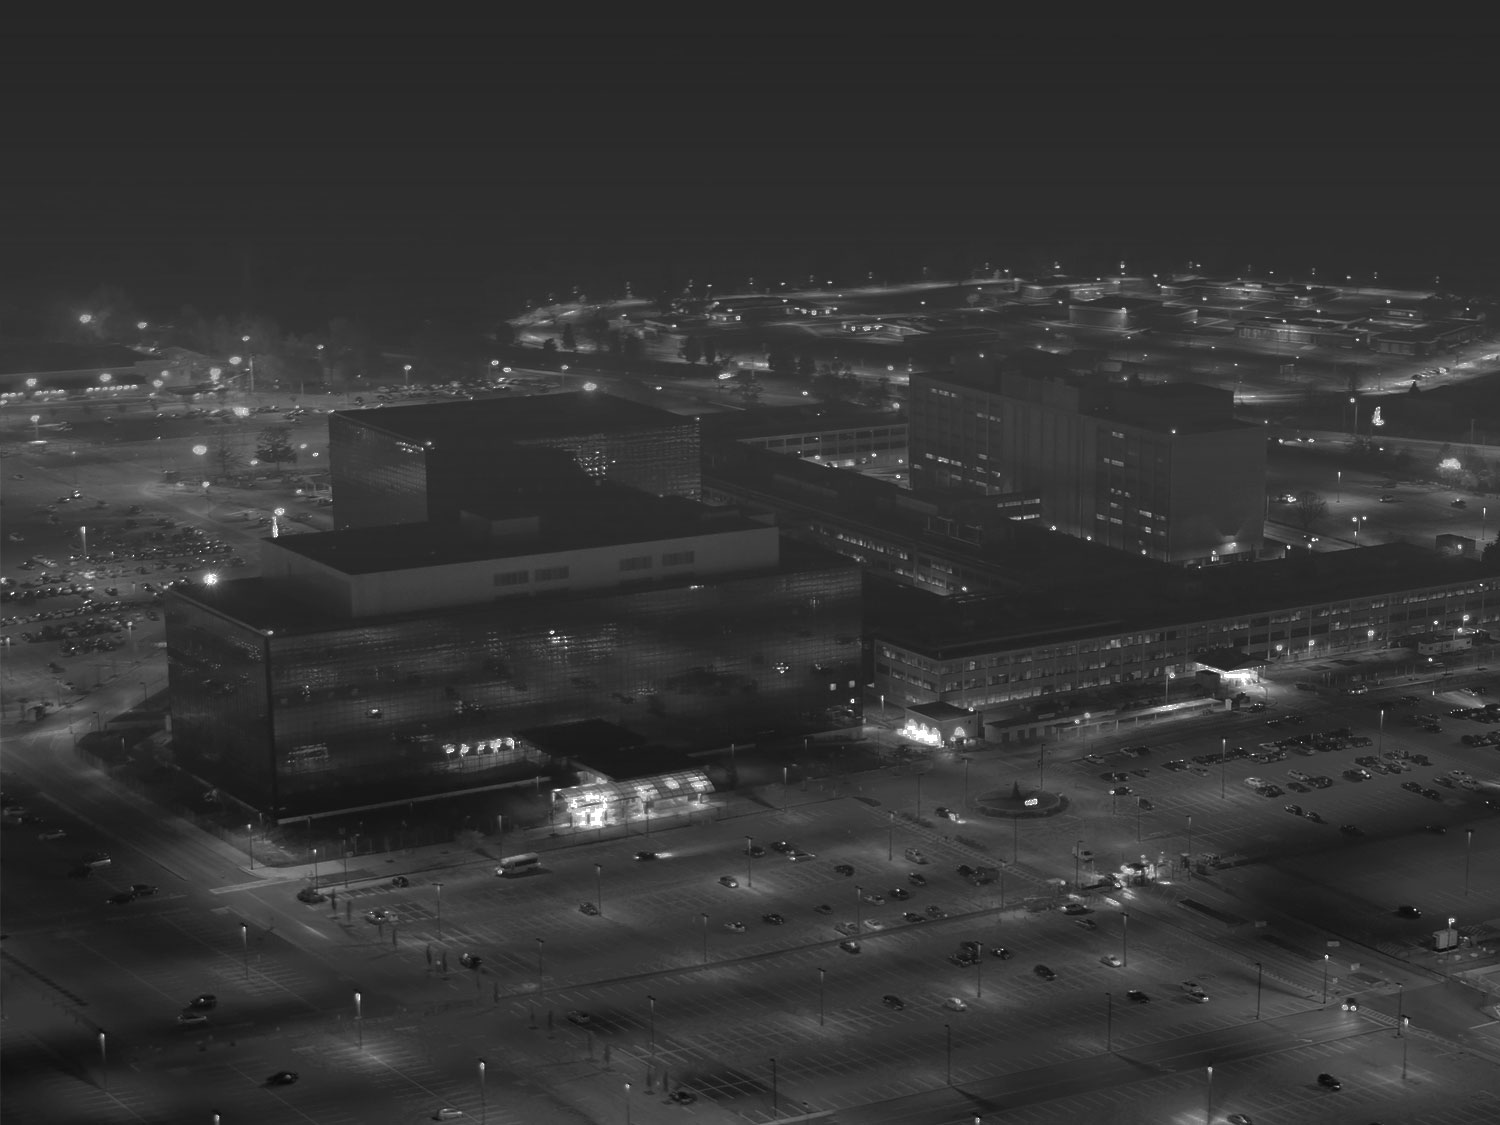
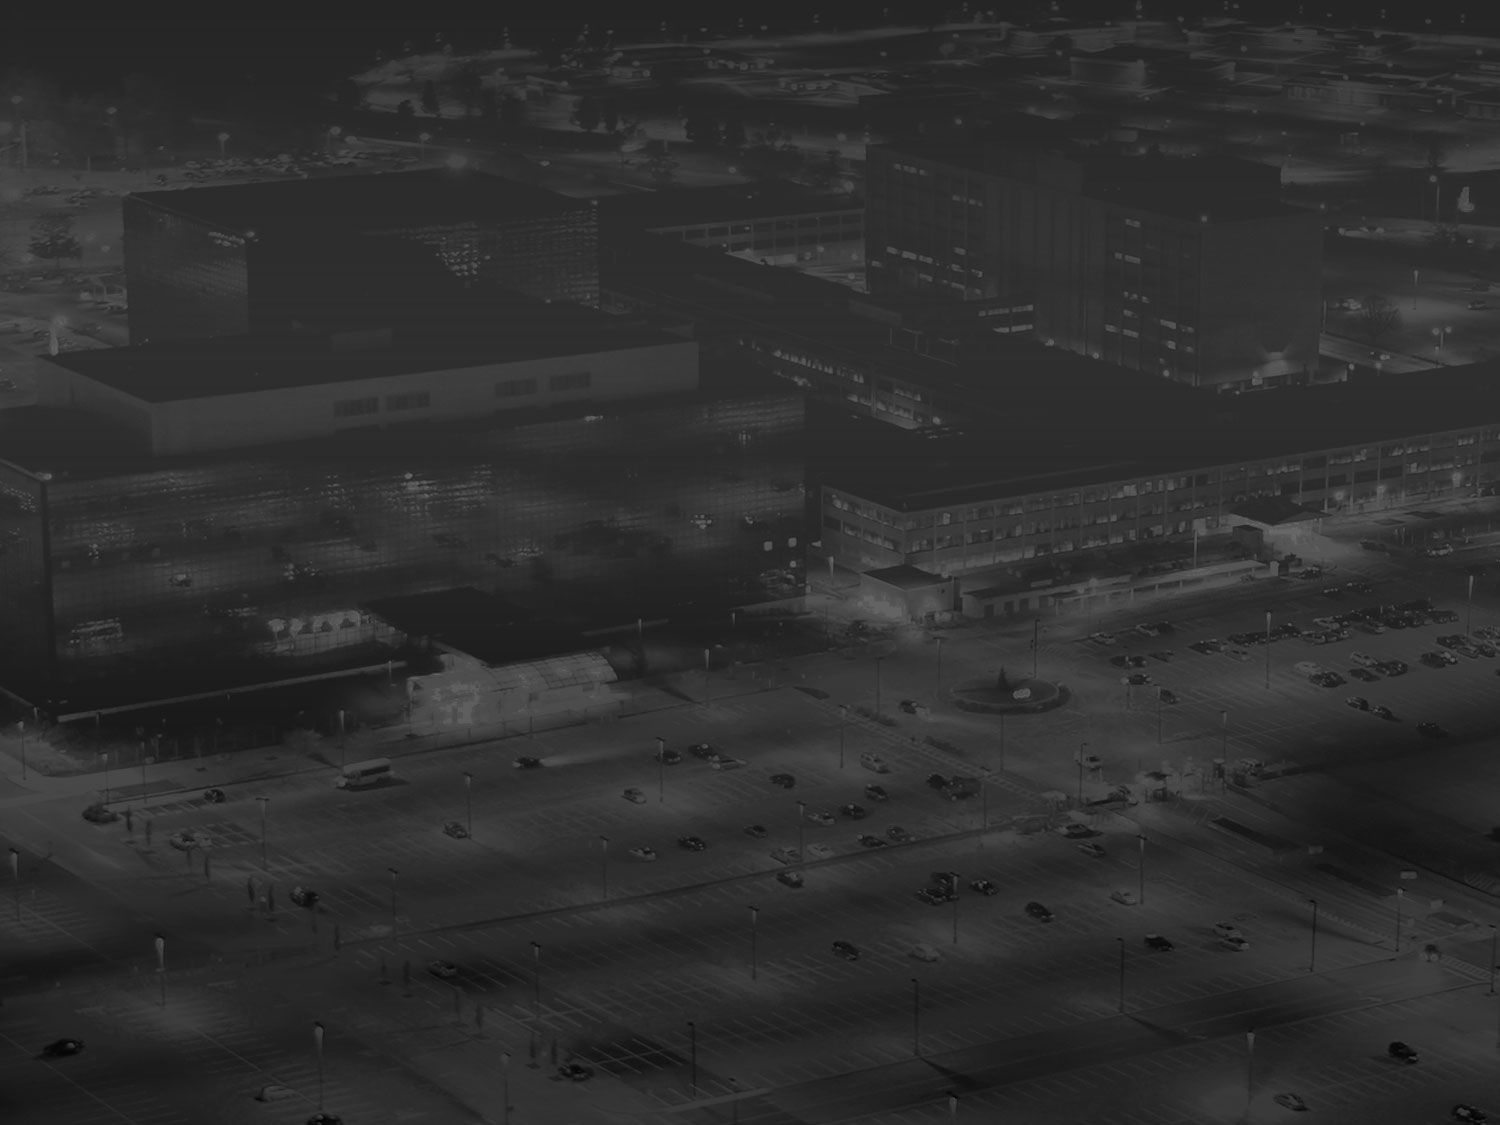
Various fixes

diff --git a/index.html b/index.html
@@ -13,6 +13,7 @@
     <link href="//netdna.bootstrapcdn.com/bootstrap/3.0.3/css/bootstrap.min.css" rel="stylesheet" type="text/css">
 
     <!-- Fonts -->
+    <link href="//netdna.bootstrapcdn.com/font-awesome/4.0.3/css/font-awesome.min.css" rel="stylesheet" type="text/css">
     <link href="css/iconfont.css" rel="stylesheet" type="text/css">
     <link href='//fonts.googleapis.com/css?family=Lora:400,700,400italic,700italic' rel='stylesheet' type='text/css'>
     <link href='//fonts.googleapis.com/css?family=Montserrat:400,700' rel='stylesheet' type='text/css'>
@@ -28,10 +29,10 @@
         <div class="container">
             <div class="navbar-header page-scroll">
                 <button type="button" class="navbar-toggle" data-toggle="collapse" data-target=".navbar-main-collapse">
-                    <i class="fa fa-bars"></i>
+                    <i class="icon-bars"></i>
                 </button>
                 <a class="navbar-brand" href="#page-top">
-                    <i class="fa fa-play-circle"></i>  <span class="light">Shut The</span> Backdoor
+                    <i class="icon-exit"></i>  <span class="light">Shut The</span> Backdoor
                 </a>
             </div>
 
@@ -67,7 +68,7 @@
                         <p class="intro-text">Two amendments are being voted on in the House tomorrow. Together, they'd end critical backdoors that allow the NSA to surveil the Internet. </p>
                         <div class="page-scroll">
                             <a href="#about" class="btn btn-circle">
-                                <i class="fa fa-angle-double-down animated"></i>
+                                <i class="icon-angle-double-down animated"></i>
                             </a>
                         </div>
                     </div>
@@ -79,10 +80,8 @@
     <section id="about" class="container content-section text-center">
         <div class="row">
             <div class="col-lg-8 col-lg-offset-2">
-                <h2>What do the Amendments do </h2>
-                <p>Grayscale is a premium quality, free Bootstrap 3 theme created by Start Bootstrap. It can be yours right now, all you need to do is download the template on the preview page. You can use this template for any purpose, personal or commercial.</p>
-                <p>This striking, black and white theme features stock photographs by <a href="http://gratisography.com/">Gratisography</a> along with a custom Google Map skin courtesy of <a href="http://snazzymaps.com/">Snazzy Maps</a>.</p>
-                <p>With this template, just the slightest splash of color can make a huge impact on the overall presentation and design.</p>
+                <h2>The NSA's Backdoors </h2>
+                <p>Information about the backdoors goes here, probably in bullet point format.</p>
             </div>
         </div>
     </section>
@@ -91,9 +90,9 @@
         <div class="download-section">
             <div class="container">
                 <div class="col-lg-8 col-lg-offset-2">
-                    <h2>Download Grayscale</h2>
-                    <p>You can download Grayscale for free on the download page at Start Bootstrap. You can also get the source code directly from GitHub if you prefer. Additionally, Grayscale is the first Start Bootstrap theme to come with a LESS file for easy color customization!</p>
-                    <a href="http://startbootstrap.com/grayscale" class="btn btn-default btn-lg">Visit Download Page</a>
+                    <h2>The Amendments</h2>
+                    <p>Information about the amendments. With a different background!</p>
+                    <a href="http://startbootstrap.com/grayscale" class="btn btn-default btn-lg">Call now</a>
                 </div>
             </div>
         </div>
@@ -102,15 +101,12 @@
     <section id="contact" class="container content-section text-center">
         <div class="row">
             <div class="col-lg-8 col-lg-offset-2">
-                <h2>Contact Start Bootstrap</h2>
-                <p>Feel free to email us to provide some feedback on our templates, give us suggestions for new templates and themes, or to just say hello!</p>
-                <p>feedback@startbootstrap.com</p>
+                <h2>It only takes 2 minutes</h2>
+                <p>Enter your phone number below and we'll call and connect you to your representatives, and you can tell them to support the two amendments tomorrow.</p>
                 <ul class="list-inline banner-social-buttons">
-                    <li><a href="https://twitter.com/SBootstrap" class="btn btn-default btn-lg"><i class="fa fa-twitter fa-fw"></i> <span class="network-name">Twitter</span></a>
+                    <li><a href="" class="btn btn-default btn-lg"><i class="icon-twitter"></i> <span class="network-name">Share on Twitter</span></a>
                     </li>
-                    <li><a href="https://github.com/IronSummitMedia/startbootstrap" class="btn btn-default btn-lg"><i class="fa fa-github fa-fw"></i> <span class="network-name">Github</span></a>
-                    </li>
-                    <li><a href="https://plus.google.com/+Startbootstrap/posts" class="btn btn-default btn-lg"><i class="fa fa-google-plus fa-fw"></i> <span class="network-name">Google+</span></a>
+                    <li><a href="" class="btn btn-default btn-lg"><i class="icon-facebook"></i> <span class="network-name">Share on Facebook</span></a>
                     </li>
                 </ul>
             </div>

diff --git a/css/iconfont.css b/css/iconfont.css
@@ -1,10 +1,10 @@
 @font-face {
 	font-family: 'icomoon';
-	src:url('fonts/icomoon.eot?-x940sc');
-	src:url('fonts/icomoon.eot?#iefix-x940sc') format('embedded-opentype'),
-		url('fonts/icomoon.woff?-x940sc') format('woff'),
-		url('fonts/icomoon.ttf?-x940sc') format('truetype'),
-		url('fonts/icomoon.svg?-x940sc#icomoon') format('svg');
+	src:url('../fonts/icomoon.eot?-x940sc');
+	src:url('../fonts/icomoon.eot?#iefix-x940sc') format('embedded-opentype'),
+		url('../fonts/icomoon.woff?-x940sc') format('woff'),
+		url('../fonts/icomoon.ttf?-x940sc') format('truetype'),
+		url('../fonts/icomoon.svg?-x940sc#icomoon') format('svg');
 	font-weight: normal;
 	font-style: normal;
 }
@@ -43,4 +43,7 @@
 }
 .icon-exit:before {
 	content: "\e604";
+}
+.icon-bars:before {
+	content: "\f0c9";
 }
